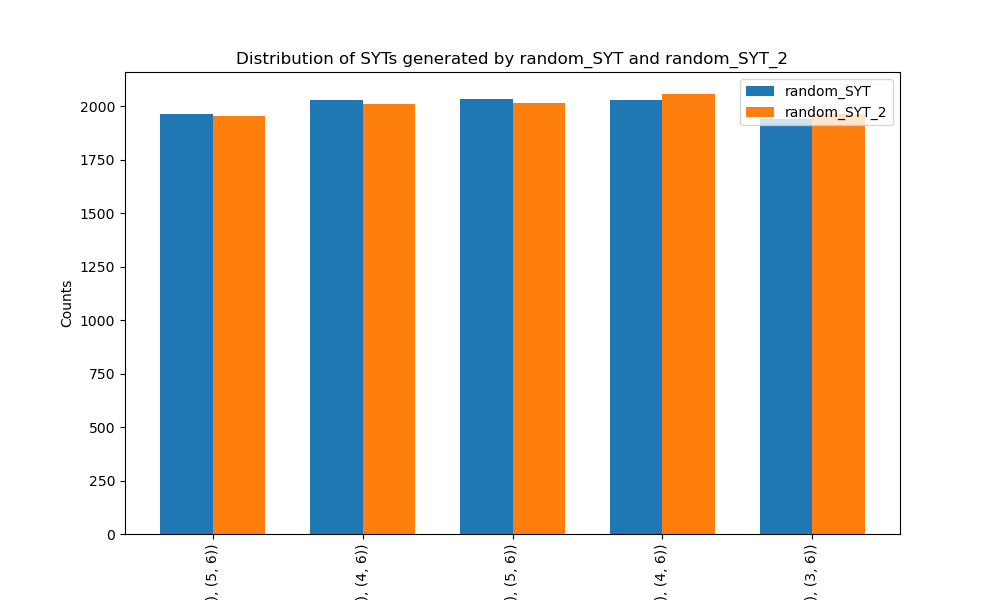
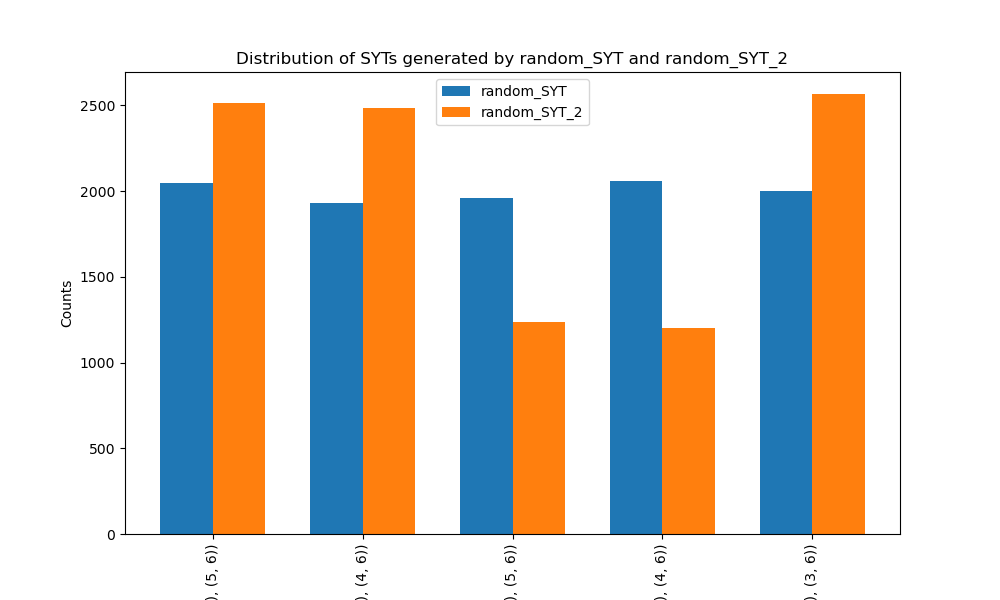
[SUBMISSION]

diff --git a/6_20_2024_SYT/SYT.py b/6_20_2024_SYT/SYT.py
@@ -132,54 +132,47 @@ def random_SYT_2(shape):
   >>> random_SYT_2((2, 1))
   ((1, 2), (3,))
   """
+  # Initialize the tableau with zeros
   n = sum(shape)
-  while True:
-      tableau = []
-      for row_length in shape:
-          tableau.append([0] * row_length)
+  tableau = [[0] * length for length in shape]
+  for num in range(1, n + 1):
+      valid_positions = []
+      # Find all valid positions for the current number
+      for i, row in enumerate(tableau):
+          for j in range(len(row)):
+              if tableau[i][j] == 0:
+                  if (i == 0 or tableau[i - 1][j] > 0) and (j == 0 or tableau[i][j - 1] > 0):
+                      valid_positions.append((i, j))
 
-      numbers = list(range(1, n + 1))
-      random.shuffle(numbers)
-      
-      for num in numbers:
-          placed = False
-          for i, row in enumerate(tableau):
-              for j in range(len(row)):
-                  if row[j] == 0:
-                      tableau[i][j] = num
-                      placed = True
-                      break
-              if placed:
-                  break
-      
-      # Convert the tableau to tuple of tuples
-      tableau_tuple = tuple(tuple(row) for row in tableau)
-
-      if is_valid_SYT(tableau_tuple):
-          return tableau_tuple
+      # Randomly choose a valid position
+      if valid_positions:
+          i, j = random.choice(valid_positions)
+          tableau[i][j] = num
+  # Convert lists to tuples for the final tableau
+  return tuple(tuple(row) for row in tableau)
       
 
 def save_SYTs_to_file(shape, directory='data'):
-    """
-    Generates and saves all valid SYTs for the given shape to a file in the specified directory.
+  """
+  Generates and saves all valid SYTs for the given shape to a file in the specified directory.
 
-    Parameters:
-    - shape (Tuple[int]): The shape of the SYTs.
-    - directory (str): The directory to save the files in.
-    """
-    # Ensure the directory exists
-    os.makedirs(directory, exist_ok=True)
-    
-    # Generate SYTs for the given shape
-    syt_list = SYTs(shape)
-    
-    # Convert shape to string format for filename
-    shape_str = '_'.join(map(str, shape))
-    
-    # Define the filename
-    filename = os.path.join(directory, f'SYTs_{shape_str}.txt')
-    
-    # Save SYTs to file
-    with open(filename, 'w') as file:
-        for syt in syt_list:
-            file.write(f'{syt}\n')
+  Parameters:
+  - shape (Tuple[int]): The shape of the SYTs.
+  - directory (str): The directory to save the files in.
+  """
+  # Ensure the directory exists
+  os.makedirs(directory, exist_ok=True)
+  
+  # Generate SYTs for the given shape
+  syt_list = SYTs(shape)
+  
+  # Convert shape to string format for filename
+  shape_str = '_'.join(map(str, shape))
+  
+  # Define the filename
+  filename = os.path.join(directory, f'SYTs_{shape_str}.txt')
+  
+  # Save SYTs to file
+  with open(filename, 'w') as file:
+      for syt in syt_list:
+          file.write(f'{syt}\n')
